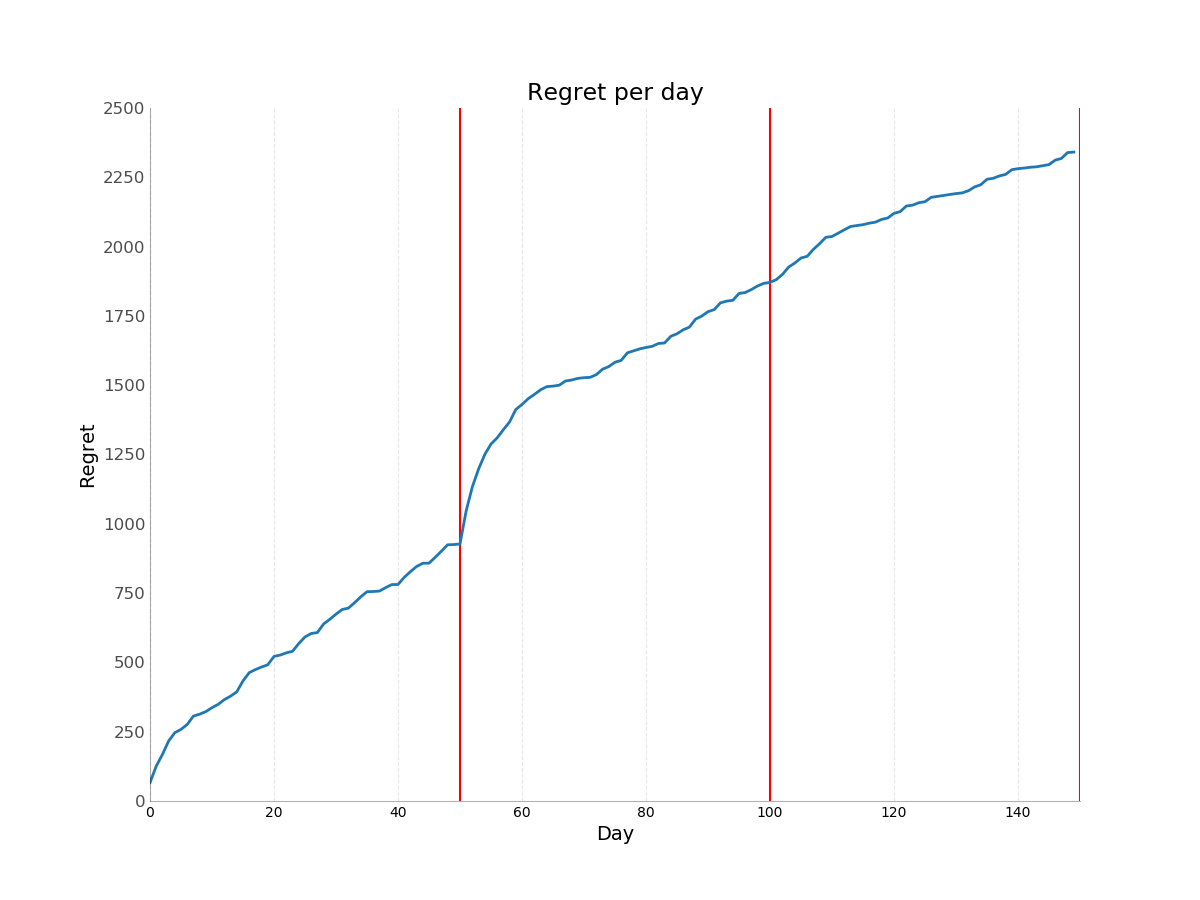
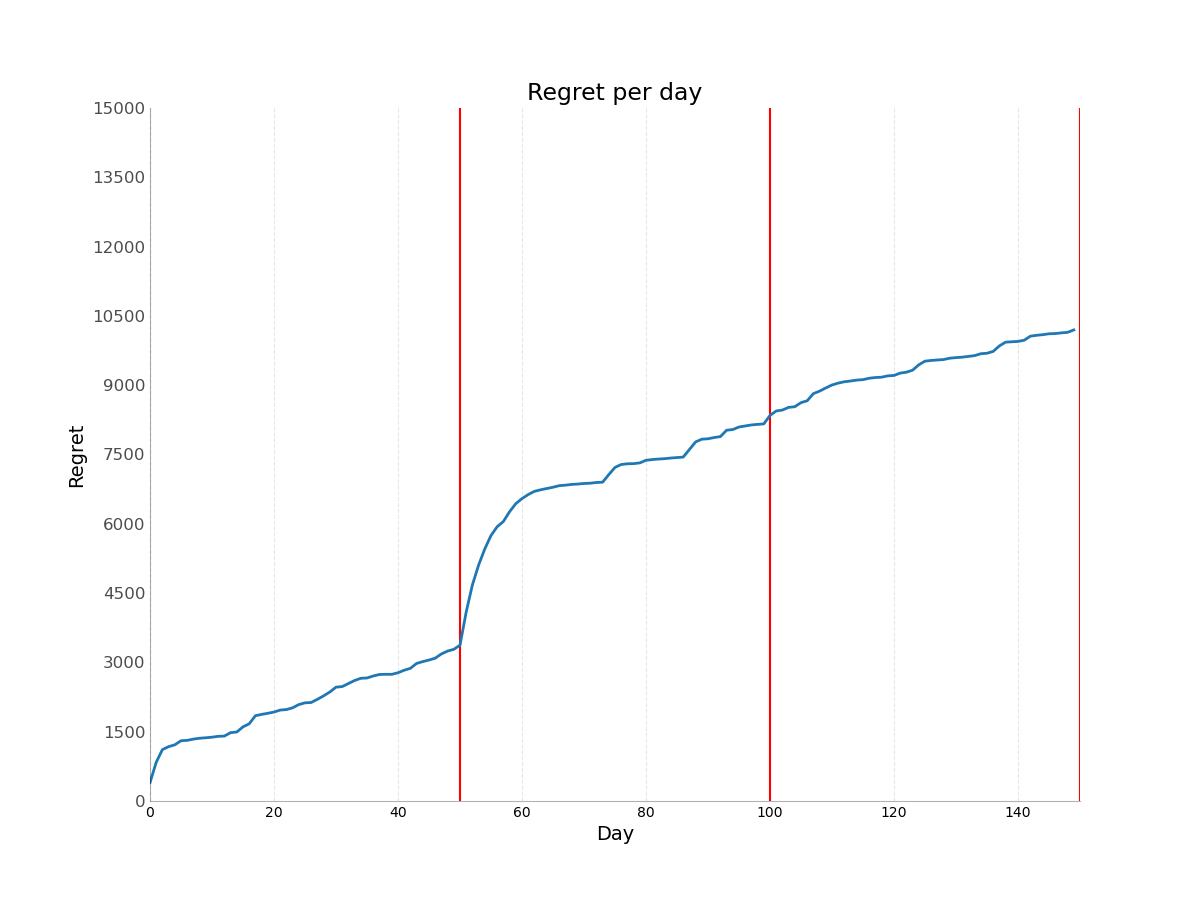
- Added chapter 4 - Modified chapter 2 and 3 to deal with update to scikitlearn

diff --git a/4. Pricing/experiment.py b/4. Pricing/experiment.py
@@ -1,0 +1,72 @@
+from PricingScenario import *
+from ContextLearner import *
+
+from matplotlib import pyplot as plt
+from tqdm import tqdm
+
+
+def compute_reward(extended_reward):
+    return extended_reward[1] / extended_reward[2]
+
+
+scenario = PricingScenario()
+
+arms = scenario.arms
+n_arms = scenario.n_arms
+
+TS = TS_Learner(n_arms=n_arms)
+
+# -- IDEAL SCENARIO -- #
+arm = scenario.get_optimal_arm()
+ideal_reward = scenario.round(arm)
+# -------------------- #
+
+# -- OPTIMAL SCENARIO -- #
+max_week = 5
+iteration_per_day = 24*6
+
+regret = []
+
+for day in tqdm(range(0, max_week * 7 * iteration_per_day)):
+
+    # Pull an arm
+    pulled_arm = TS.pull_arm()
+
+    # Play a round with the selected arm
+    reward = scenario.round(pulled_arm=arms[pulled_arm])
+
+    # Update the distribution
+    TS.update(pulled_arm, compute_reward(reward))
+
+    # Compute the iteration regret
+    regret += [ideal_reward[1] - reward[1]]
+
+
+# PLOTTING THE REGRET
+fig = plt.figure(figsize=(12, 9))
+ax = fig.add_subplot()
+
+ax.set_title("Regret per week", fontsize=17, ha='center')
+
+ax.grid(axis='x', alpha=0.3, linestyle='--')
+
+ax.set_ylim(bottom=0)
+ax.set_xlim(left=0)
+
+ax.set_xlabel("Week", fontsize=14)
+ax.set_ylabel("Missed conversion", fontsize=14)
+
+ax.tick_params(length=0)
+ax.set_xticks(np.linspace(iteration_per_day * 7, iteration_per_day * 7 * max_week, max_week))
+ax.set_xticklabels(np.linspace(1, max_week, max_week).astype(np.int64), fontsize=12, alpha=0.7)
+ax.set_yticks(np.linspace(30000, 300000, 10))
+ax.set_yticklabels(np.linspace(30, 300, 10).astype(np.int64), fontsize=12, alpha=0.7)
+
+ax.spines['right'].set_alpha(0)
+ax.spines['left'].set_alpha(0.3)
+ax.spines['top'].set_alpha(0)
+ax.spines['bottom'].set_alpha(0.3)
+
+ax.plot(np.cumsum(regret), linewidth='2')
+
+plt.savefig('chapter4_regret.png')

diff --git a/2. GPTS Learner/experiment.py b/2. GPTS Learner/experiment.py
@@ -29,7 +29,9 @@ time_horizon = 50
 
 regret = []
 for e in range(0, number_of_experiments):
-    print('Starting experiment', e)
+
+    print('\n')
+    print('Starting experiment', e + 1)
 
     scenarios = [Scenario(daily_budgets=normalized_daily_budgets,
                           sigma=sigma,
@@ -98,6 +100,9 @@ for e in range(0, number_of_experiments):
     regret.append(ideal_rewards_per_round - optimal_rewards_per_round)
 
 # PLOTTING THE REGRET
+y = np.cumsum(np.mean(regret, axis=0))
+max_y = np.max(y)
+
 fig = plt.figure(figsize=(12,9))
 ax = fig.add_subplot()
 
@@ -112,17 +117,17 @@ ax.set_xlabel("Day", fontsize=14)
 ax.set_ylabel("Regret", fontsize=14)
 
 ax.tick_params(length=0)
-ax.set_yticks(np.linspace(0, 2500, 11))
-ax.set_yticklabels(np.linspace(0, 2500, 11).astype(np.int64), fontsize=12, alpha=0.7)
+ax.set_yticks(np.linspace(0, max_y * 1.5, 11))
+ax.set_yticklabels(np.linspace(0, max_y * 1.5, 11).astype(np.int64), fontsize=12, alpha=0.7)
 
 ax.spines['right'].set_alpha(0)
 ax.spines['left'].set_alpha(0.3)
 ax.spines['top'].set_alpha(0)
 ax.spines['bottom'].set_alpha(0.3)
 
-ax.plot(np.cumsum(np.mean(regret, axis=0)), linewidth='2')
+ax.plot(y, linewidth='2')
 ax.set_xlim([0, time_horizon])
 
-plt.show()
-
 plt.savefig('chapter2_regret.png')
+
+plt.show()

diff --git a/4. Pricing/PricingScenario.py b/4. Pricing/PricingScenario.py
@@ -1,0 +1,28 @@
+import pandas as pd
+import numpy as np
+
+from matplotlib import pyplot as plt
+
+
+class PricingScenario:
+
+    def __init__(self, file_name="../Scenarios/User_pricing.csv"):
+        self.file_name = file_name
+
+        self.df = pd.read_csv(self.file_name)
+
+        self.arms = self.df.price.unique()
+        self.n_arms = self.arms.size
+
+    def get_optimal_arm(self):
+        converted = self.df[(self.df.Converted == 1)].groupby("price").sum().Converted
+        total = self.df.sum().Converted
+
+        return self.arms[np.argmax(converted/total)]
+
+    def round(self, pulled_arm):
+        return [
+                   pulled_arm,
+                   self.df[(self.df.price == pulled_arm) & (self.df.Converted == 1)].count()[0],
+                   self.df[(self.df.price == pulled_arm)].count()[0]
+        ]

diff --git a/4. Pricing/TS_Learner.py b/4. Pricing/TS_Learner.py
@@ -1,0 +1,18 @@
+from Learner import *
+import numpy as np
+
+class TS_Learner(Learner):
+	
+	def __init__(self, n_arms):
+		super().__init__(n_arms)
+		self.beta_parameters = np.ones((n_arms, 2))
+		
+	def pull_arm(self):
+		idx = np.argmax(np.random.beta(self.beta_parameters[:, 0], self.beta_parameters[:, 1]))
+		return idx
+		
+	def update(self, pulled_arm, reward):
+		self.t += 1
+		self.update_observations(pulled_arm, reward)
+		self.beta_parameters[pulled_arm, 0] = self.beta_parameters[pulled_arm, 0] + reward
+		self.beta_parameters[pulled_arm, 1] = self.beta_parameters[pulled_arm, 1]+1.0 - reward

diff --git a/3. SW-GPTS Learner/experiment.py b/3. SW-GPTS Learner/experiment.py
@@ -40,7 +40,9 @@ window_length = int(window_coefficient * math.sqrt(time_horizon))
 
 regret = []
 for e in range(0, number_of_experiments):
-    print('Starting experiment', e)
+
+    print('\n')
+    print('Starting experiment', e + 1)
 
     scenarios = [ThreePhasesScenario(daily_budgets=normalized_daily_budgets,
                                      sigma=sigma,
@@ -153,6 +155,6 @@ ax.axvline(phase_duration*3, color='r')
 ax.plot(np.cumsum(np.mean(regret, axis=0)), linewidth='2')
 ax.set_xlim([0, time_horizon])
 
-plt.show()
-
 plt.savefig('chapter3_regret.png')
+
+plt.show()

diff --git a/2. GPTS Learner/SW_GPTS_Learner.py b/2. GPTS Learner/SW_GPTS_Learner.py
@@ -20,10 +20,9 @@ class SW_GPTS_Learner:
 
         alpha = 10.0
         kernel = C(1.0, (1e-5, 1e5)) * RBF(1.0, (1e-5, 1e5))
-        
         self.gp = GaussianProcessRegressor(kernel=kernel,
                                            alpha=alpha**2,
-                                           normalize_y=True,
+                                           normalize_y=False,
                                            n_restarts_optimizer=10)
 
     def sample_values(self):

diff --git a/4. Pricing/Learner.py b/4. Pricing/Learner.py
@@ -1,0 +1,14 @@
+import numpy as np
+
+class Learner:
+	
+	def __init__(self, n_arms):
+		self.n_arms = n_arms
+		self.t = 0
+		self.rewards_per_arm = [[] for i in range(n_arms)]
+		self.collected_rewards = np.array([])
+		
+	def update_observations(self, pulled_arm, reward):
+		self.rewards_per_arm[pulled_arm].append(reward)
+		self.collected_rewards = np.append(self.collected_rewards, reward)
+

diff --git a/3. SW-GPTS Learner/SW_GPTS_Learner.py b/3. SW-GPTS Learner/SW_GPTS_Learner.py
@@ -23,7 +23,7 @@ class SW_GPTS_Learner:
         
         self.gp = GaussianProcessRegressor(kernel=kernel,
                                            alpha=alpha**2,
-                                           normalize_y=True,
+                                           normalize_y=False,
                                            n_restarts_optimizer=10)
 
     def sample_values(self):

diff --git a/5. Context Learner/experiment.py b/5. Context Learner/experiment.py
@@ -5,6 +5,7 @@ from matplotlib import pyplot as plt
 from tqdm import tqdm
 import pandas as pd
 
+
 def compute_reward(extended_reward):
     n = 0
     d = 0
@@ -12,6 +13,7 @@ def compute_reward(extended_reward):
         n += r[3]
         d += r[4]
     return n/d
+
 
 scenario = PricingScenario()
 scenario.plot_scenario_distribution()
